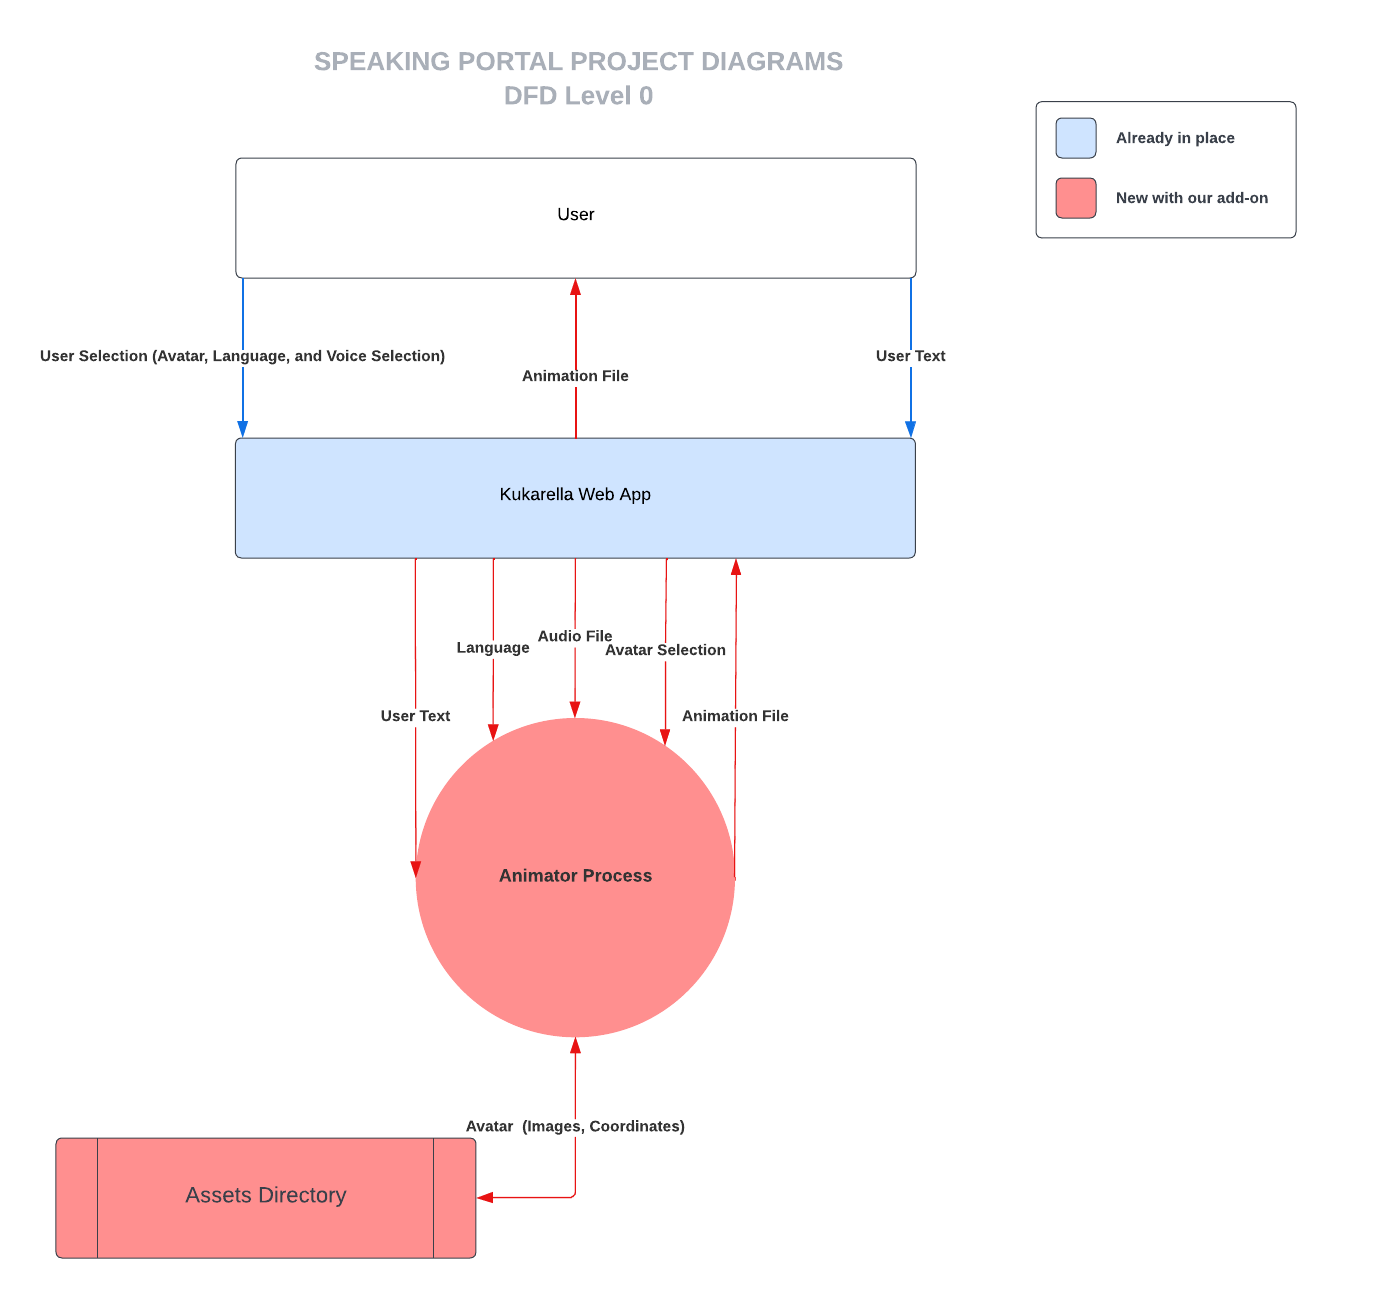
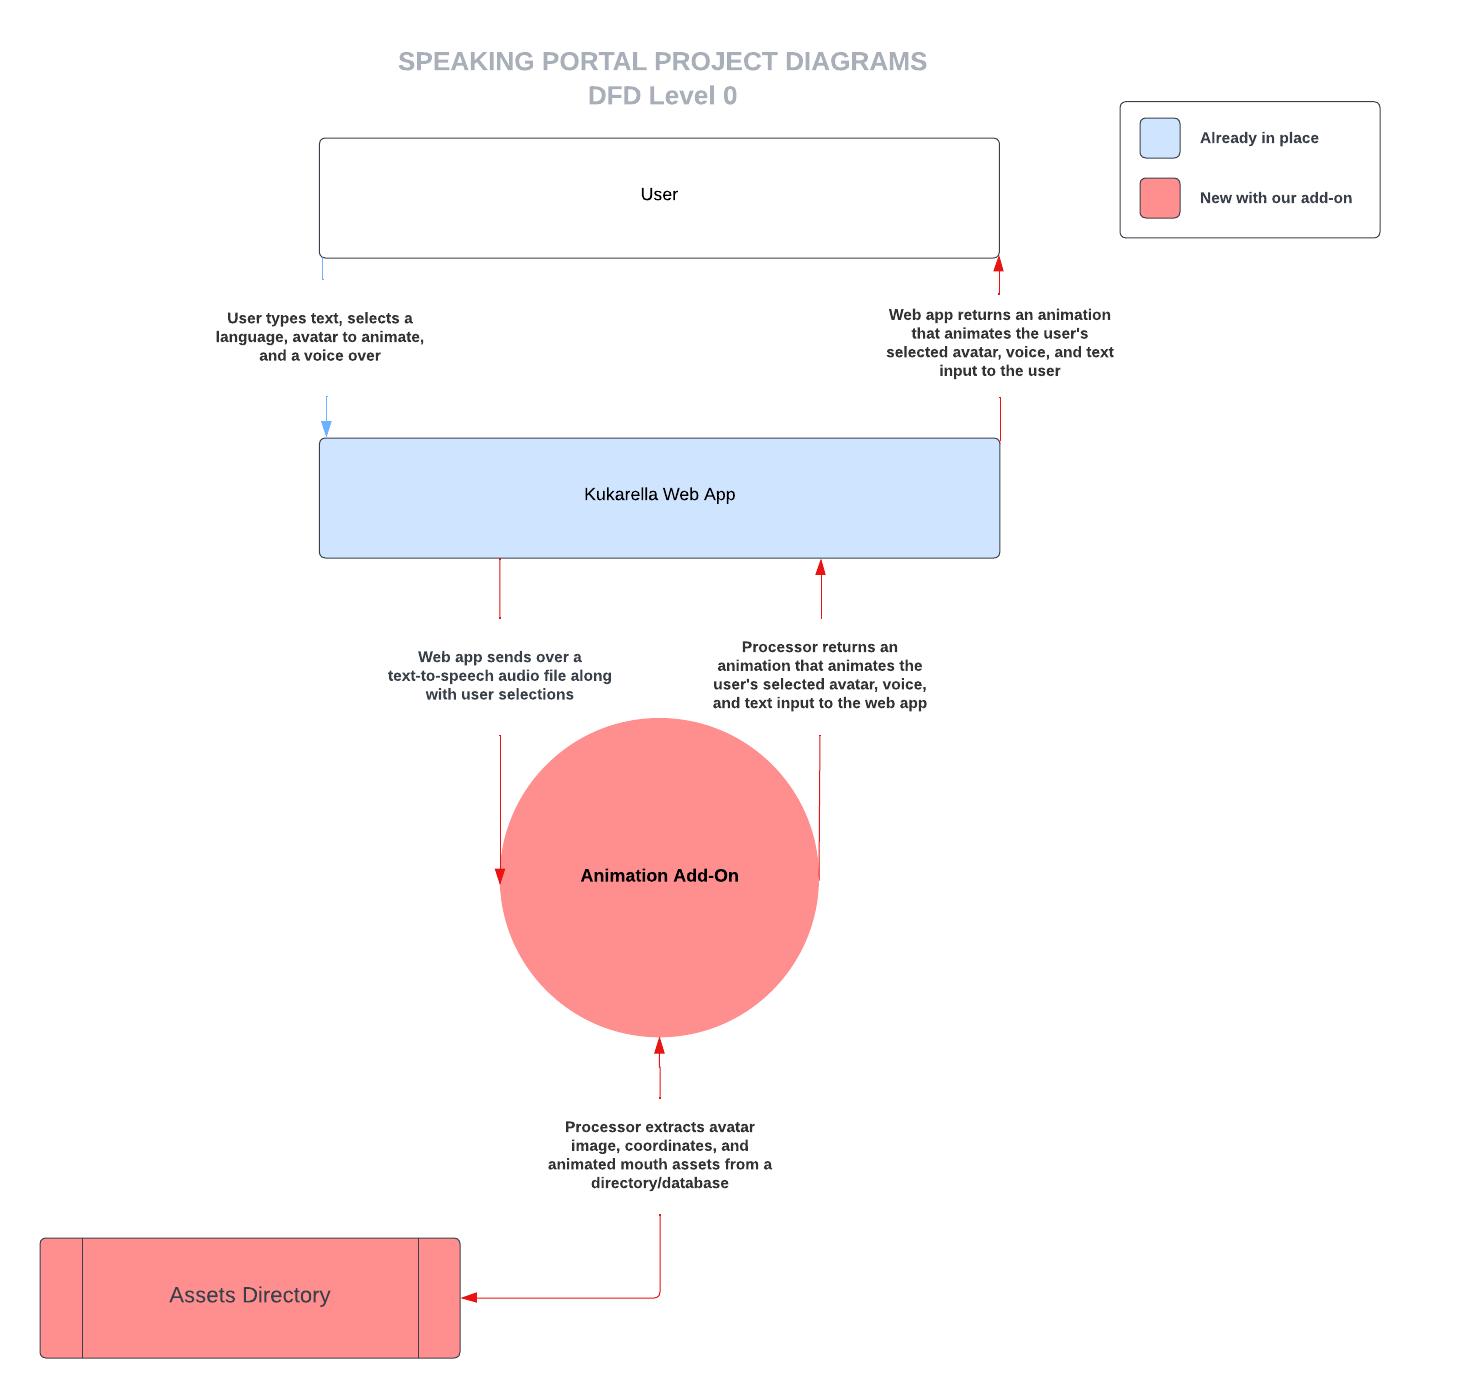
dfd section for the report

diff --git a/docs/reports/requirements/2_dfd-desc.md b/docs/reports/requirements/2_dfd-desc.md
@@ -1,25 +1,20 @@
 # Data Flow Diagrams
 
+These diagrams are generalizations about how our system will interact with data from the user, Kukarella Web App, and our Animation Add-On. The level 0 DFD highlights a high overview of the system and the level 1 DFD breaks down the system in more detail. The system we are building is working alongside an existing system. Items highlighted in red represent the parts of the system that are already in place and items highlighted in blue  are parts of the system that are being added by our new Animation Add-On.
 
-## Level 0 DFD 
+## Level 0 
+
+The level 0 data flow diagrams give a high level view of how our system will be interacting with the user and the client’s existing system. 
 
 ![](dfd_0.png)
 
+The user will first access Kukurella’s text-to-speech front end and type in a text input. The user will also select a voice and an avatar they would like to use for their text-speech animation. From the front-end the text and other user selections will be sent over to our Animation Add-On. The Animator will then query an avatar image, avatar coordinates, and mouth animation assets from a database. The Animator will produce an animation of an avatar reading the user’s text in the user selected voice. This animation will be sent to Kukeralla's web application and then will be sent to the user.  
 
+## Level 1
 
-
-- Four main groups listed in this DFD: user, kukurella Web App, Animation Process, and Assets library
-- The web app is already in place, will be creating an animation add-on that receives inputs from this web app
-- Assets library will include avatar images mouth assets, and coordinates to indicate where to place mouth assets onto the avatar 
-
-## Level 1 DFD
+The level 1 DFD provides a more detailed breakdown of the data flow between the client’s system and the Animation Add-On.
 
 ![](dfd_1.png)
 
-- The kukurella web app can be divided into a web app and an api endpoint that we will be touching
-- The API will provide User text, language, and audio for our phoneme generation process
-- The phoneme factory will provide the animation processor with a phoneme text file
-- The animation processor will map phonemes with mouth assets found in the assets directory
-- The processor will then sequence these mouth assets over a 2d animation avatar
-- The output will be an animation file that will be sent back to the front-end
+In this diagram Kukeralla’s Web application is broken down into a front-end and a text-to-speech API. The Kurkarella text-to-speech API creates the synthesized speech file from the user’s voice and text input. The Animation add-on is broken down into two main components. The phoneme factory is in charge of mapping spoken language from an audio file into a series of phonemes. In order to make this process as accurate as possible the phoneme factory also receives the user text file and language selection. Once the phoneme file is created it is sent off to a secondary process called the phoneme processor. This processor maps phonemes from the phoneme file to mouth assets received from a directory. There will be 1:1 mapping between phonemes and mouth assets. These assets will be added onto the avatar and rendered into a video file. The video file will be sent back to the front-end and available for the user to download onto their local machine.
 
